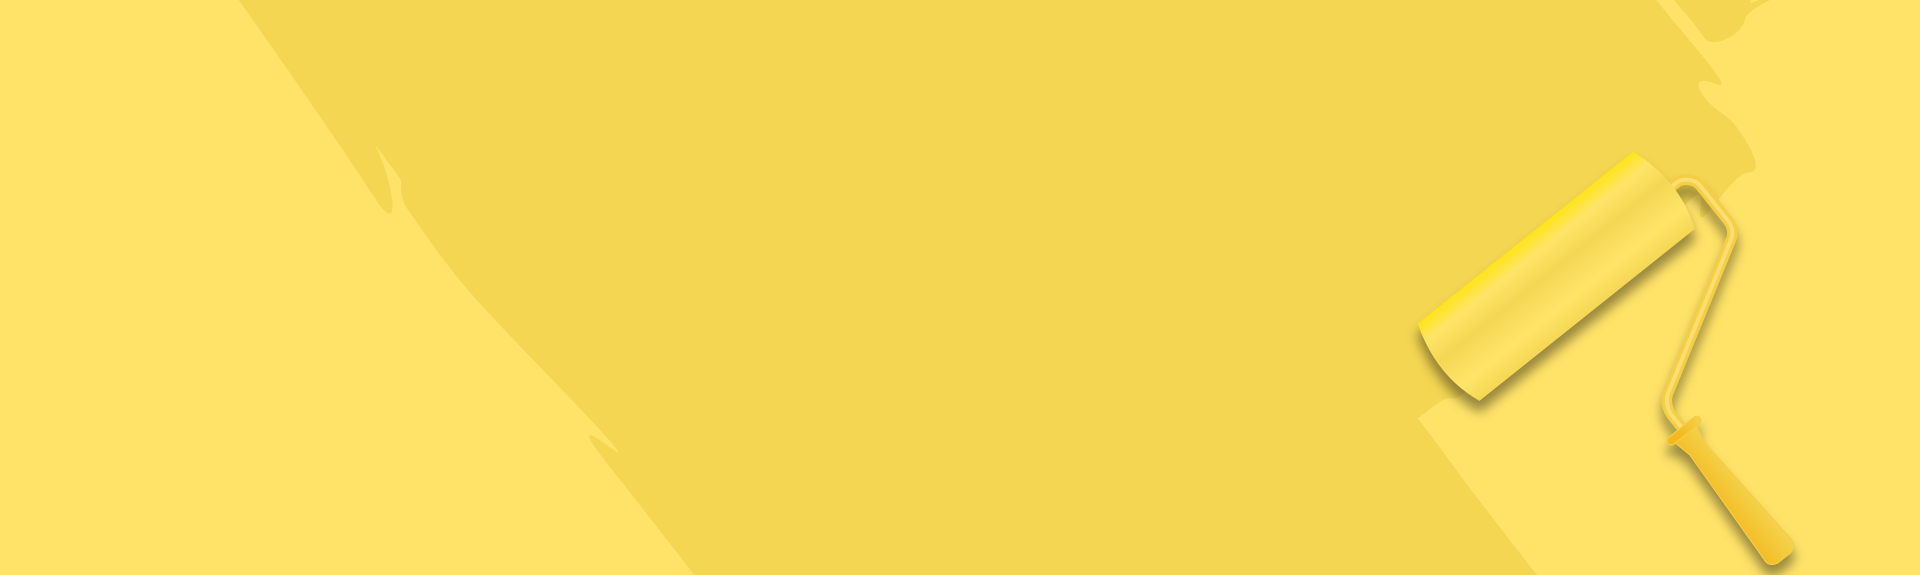
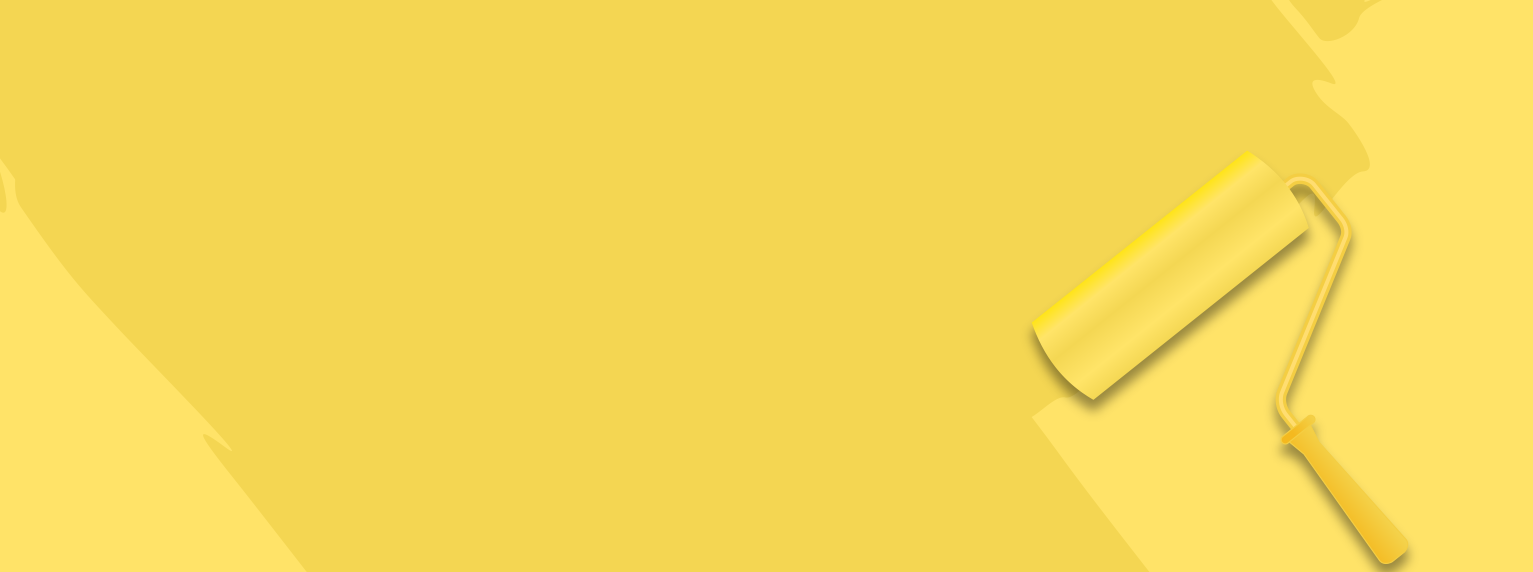
updations

Changed region(s): [[0.6745, 0.2675, 0.9504, 1.0], [0.7052, 0.4458, 0.7358, 0.5052], [0.6745, 0.5052, 0.7052, 0.5647]]

diff --git a/assets/css/style.css b/assets/css/style.css
@@ -412,8 +412,8 @@ header.header-area.nav-fixed{
     animation-name: fadeInDown;
     animation-timing-function: ease-in-out;
     box-shadow: 0 4px 12px -4px rgba(0, 0, 0, 0.75);
-    background-image: none;
-    background: #fec73c;
+    background-image: url(/assets/images/001.png);
+    /* background: none; */
 }
 header.header-area.header-area4.nav-fixed.nav-4 {
     background: #6c8c30;
@@ -501,7 +501,7 @@ ul.dropdown-menu .dropdown-item a:hover{
 /* 2.2 Hero-area */
 .hero-area{
     background-repeat: no-repeat;
-    background-image: url(../images/hero1.png);
+    background-image: url(../images/Hero-4.png);
     width: 100%;
     background-size: cover;
     overflow: hidden;
@@ -2269,9 +2269,10 @@ section.updates {
     left: 0;
     right: 0;
     width: 100%;
-    background-image: -moz-linear-gradient( -18deg, rgb(255,210,80) 0%, rgb(250,173,36) 100%);
+    background-image: url(/assets/images/001.png);
+    /* background-image: -moz-linear-gradient( -18deg, rgb(255,210,80) 0%, rgb(250,173,36) 100%);
     background-image: -webkit-linear-gradient( -18deg, rgb(255,210,80) 0%, rgb(250,173,36) 100%);
-    background-image: -ms-linear-gradient( -18deg, rgb(255,210,80) 0%, rgb(250,173,36) 100%);
+    background-image: -ms-linear-gradient( -18deg, rgb(255,210,80) 0%, rgb(250,173,36) 100%); */
 }
 .service-area h1{
     padding: 250px 0px 130px 0px;

diff --git a/assets/css/responsive.css b/assets/css/responsive.css
@@ -291,7 +291,8 @@
     }
     header.header-area {
         position: inherit;
-       background-color: #fec73c;
+        background-image: url(/assets/images/proj-ask.png);
+       /* background-color: #fec73c; */
     
    }
    header.header-area.header-area4 {
